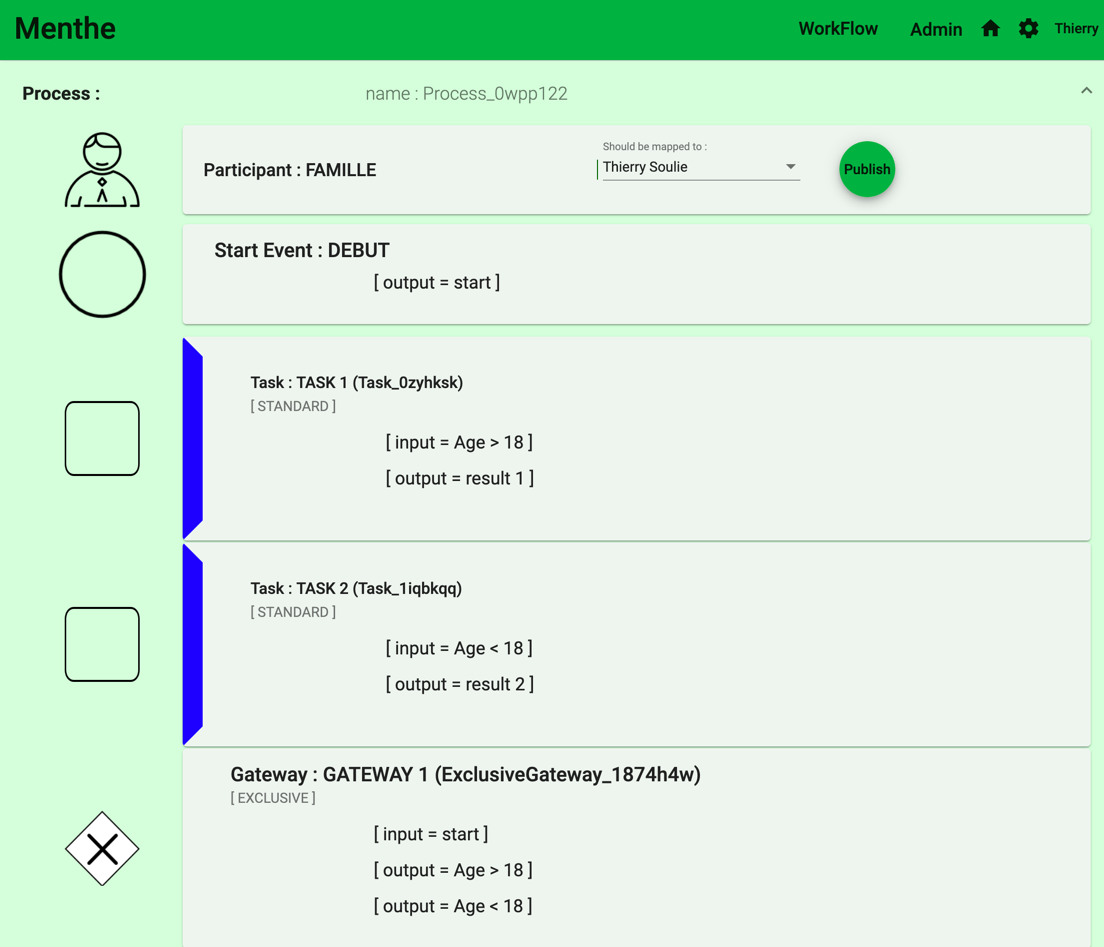
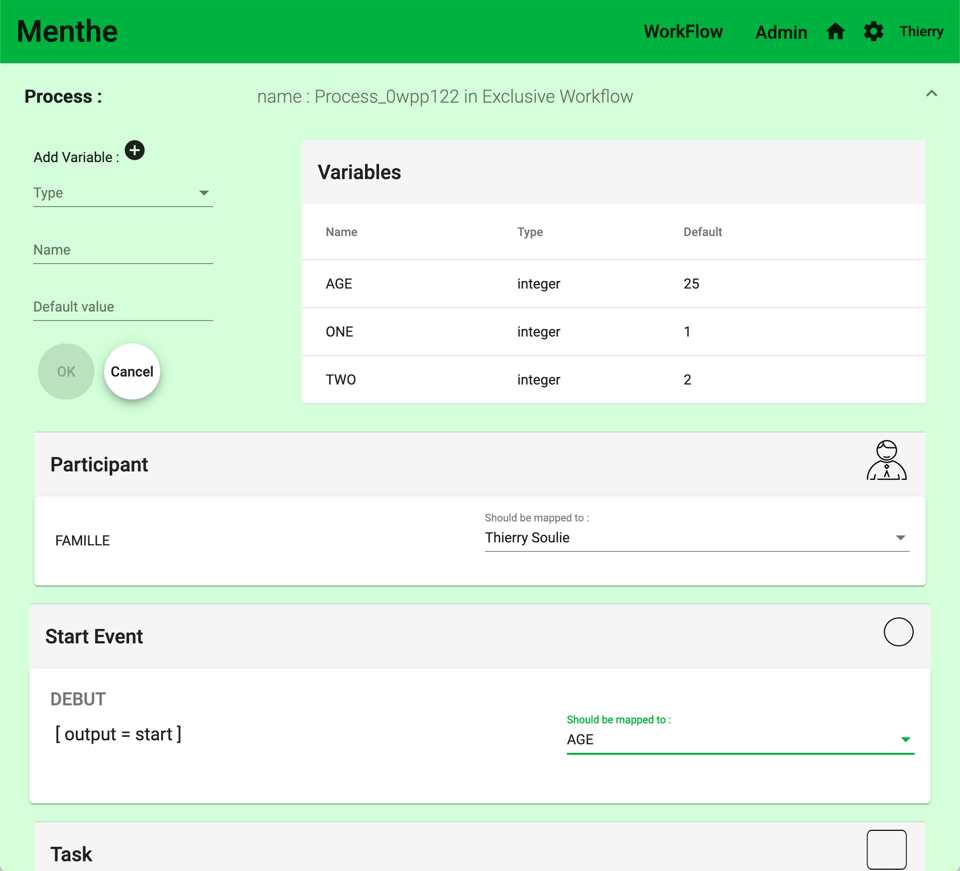
update UI

Changed region(s): [[0.0, 0.0, 1.0, 1.0]]

diff --git a/MENTHE_CLIENT/src/app/workflow/analysis/outgoing/outgoing.component.ts b/MENTHE_CLIENT/src/app/workflow/analysis/outgoing/outgoing.component.ts
@@ -1,11 +1,13 @@
 import { Component, OnInit, Input, OnDestroy } from '@angular/core';
 import { AnalysisService } from 'src/app/_services/analysis.service';
 import { SequenceFlow } from 'src/app/_models/bpmn';
-import { Variable } from 'src/app/_interfaces/publish.interface';
+import { Variable, PublishMessageHeader, VariableDirection, VariableType } from 'src/app/_interfaces/publish.interface';
 import { FormGroup, FormBuilder, Validators } from '@angular/forms';
 import { PublishingService } from 'src/app/_services/publishing.service';
 import { SubSink } from 'subsink';
 import { Observable } from 'rxjs';
+import { CommunicationService } from 'src/app/_services/communication.service';
+import { Module } from 'src/app/_interfaces/communication.interface';
 
 @Component({
   selector: 'app-outgoing',
@@ -26,6 +28,8 @@ export class OutgoingComponent implements OnInit, OnDestroy {
     variableForm: FormGroup;
     variables: Variable[] = [];
     variables$: Observable<Variable>;
+    varValue = 'Not Mapped';
+    oldvarValue = this.varValue;
 
     subs = new SubSink();
 
@@ -33,6 +37,7 @@ export class OutgoingComponent implements OnInit, OnDestroy {
     private formBuilder: FormBuilder,
     private analysisService: AnalysisService,
     private publishingService: PublishingService,
+    private communicationService: CommunicationService,
   ) {
     this.variableForm = this.formBuilder.group({
       variableType: ['', Validators.required],
@@ -57,8 +62,44 @@ export class OutgoingComponent implements OnInit, OnDestroy {
     }
     const workflowId = this.analysisService.getElementList().wf.workflow_id;
     const processes = this.analysisService.getElementList().proc;
-    this.variables = this.variables.filter(w => w.workflowId === workflowId);
+    // this.variables.push({
+    //   variableId: '',
+    //   processId: '',
+    //   workflowId,
+    //   direction: VariableDirection.NONE,
+    //   type: VariableType.STRING,
+    //   name: null,
+    //   defaultValue: '',
+    // });
+    this.variables = this.variables.filter(w => w.workflowId === workflowId).sort();
   }
+
+  onChange() {
+//    console.log('[Outgoing Mapped Value] :', this.varValue);
+    if (this.varValue === '') {}
+    if (this.oldvarValue === 'Not Mapped') {
+        this.oldvarValue = this.varValue;
+        this.communicationService.announce(
+          {
+            header: PublishMessageHeader.ADDMAPPING,
+            module: Module.PUBLISH,
+            commObject: { object: this.varValue ,
+                          relatedToId: this.outgoing}
+          }
+        );
+    } else {
+      this.communicationService.announce(
+        {
+          header: PublishMessageHeader.CHANGEMAPPING,
+          module: Module.PUBLISH,
+          commObject: { object: { old: this.oldvarValue, new: this.varValue },
+                        relatedToId: this.outgoing}
+        }
+      );
+      this.oldvarValue = this.varValue;
+    }
+  }
+
 
   ngOnDestroy() {
     this.subs.unsubscribe();

diff --git a/MENTHE_CLIENT/src/app/workflow/publishing/variable-grid/variable-grid.component.ts b/MENTHE_CLIENT/src/app/workflow/publishing/variable-grid/variable-grid.component.ts
@@ -23,7 +23,7 @@ export class VariableGridComponent implements OnInit, OnDestroy {
 
   subs = new SubSink();
 
-  displayedColumns: string[] = ['name', 'direction', 'type', 'defaultValue'];
+  displayedColumns: string[] = ['name', 'type', 'defaultValue'];
   dataSource: Variable[] = [];
 
   variableForm: FormGroup;
@@ -45,13 +45,15 @@ export class VariableGridComponent implements OnInit, OnDestroy {
     this.subs.add(
       this.publishingService.variables$.subscribe(
         variable => {
-          if ((variable.processId === this.process.attr.id) && (variable.workflowId === this.workflow.workflow_id)) {
-            console.log('[GRID] Receive new row ', variable);
-            this.variables.push(variable);
-            this.mustAddVariable = false;
-            const cloned = [...this.dataSource];
-            this.dataSource = cloned;
-          }
+          if (variable.workflowId === this.workflow.workflow_id) {
+              if (variable.processId === this.process.attr.id) {
+                console.log('[GRID] Receive new row ', variable);
+                this.variables.push(variable);
+                this.mustAddVariable = false;
+                const cloned = [...this.variables];
+                this.dataSource = cloned;
+              }
+            }
         }
       )
     );

diff --git a/MENTHE_SERVER/server/api/services/process.service.ts b/MENTHE_SERVER/server/api/services/process.service.ts
@@ -2,7 +2,7 @@
 
 import l from '../../common/logger';
 import mongoose from 'mongoose';
-import { Process, ProcessSchema, IProcess, ProcessState } from '../models/process.model';
+import { Process, ProcessSchema, IProcess, ProcessState, IProcessModel } from '../models/process.model';
 import { IUser } from '../models/users.model';
 
 
@@ -44,6 +44,20 @@ class ProcessInMongoDatabase {
     async updateProcess(id: string, newProcess: IProcess) {
         l.debug('Updating Process Id : ', id);
         return await Process.findOneAndUpdate({processId: id},newProcess);
+    }
+
+    async insertOwner(id: string, owner: IUser) {
+        let result: Promise<IProcessModel>
+        l.debug('Add Owner in Process : ', id, '-', owner);
+        this.findProcessById(id).then(
+            p => {
+                p.owner = owner;
+                result = this.updateProcess(id, p);
+            }
+        ).catch (
+            e => l.debug(e)
+        );
+        return result;
     }
 
     uuidv4() {

diff --git a/MENTHE_CLIENT/src/app/workflow/publishing/variable/variable.component.html b/MENTHE_CLIENT/src/app/workflow/publishing/variable/variable.component.html
@@ -1,13 +1,13 @@
 <div class="Grid">
   <form [formGroup]="inputVariableForm">
-    <mat-form-field>
+    <!-- <mat-form-field>
       <mat-select placeholder="Direction" formControlName='direction'
         (selectionChange)="changeVariableDirection($event)">
         <mat-option *ngFor="let direction of directions" [value]="direction">
           {{ direction | uppercase }}
         </mat-option>
       </mat-select>
-    </mat-form-field>
+    </mat-form-field> -->
     <mat-form-field>
       <mat-select placeholder="Type" formControlName='variableType' (selectionChange)="changeVariableType($event)">
         <mat-option *ngFor="let vtype of vtypes" [value]="vtype">

diff --git a/MENTHE_CLIENT/src/app/_services/communication.service.ts b/MENTHE_CLIENT/src/app/_services/communication.service.ts
@@ -103,8 +103,9 @@ export class CommunicationService {
                                     });
                   break;
                 case AnalysisMessagesHeaders.PARTICIPANT:
-                  message.commObject.object.forEach(element =>
-                    this.analysisService.addParticipantInList(element));
+                  message.commObject.object.forEach(element => {
+                    this.analysisService.addParticipantInList(element);
+                  });
                   break;
                 case AnalysisMessagesHeaders.STARTEVENT:
                   this.analysisService.addStartEventInList(message.commObject.object);

diff --git a/MENTHE_CLIENT/src/app/_services/process.service.ts b/MENTHE_CLIENT/src/app/_services/process.service.ts
@@ -6,6 +6,7 @@ import { DBProcess } from '../_models/process';
 import { map, partition } from 'rxjs/operators';
 import { Observable, Subject } from 'rxjs';
 import { UserService } from './user.service';
+import { User } from '../_models/user';
 
 
 @Injectable()
@@ -60,5 +61,15 @@ export class DBProcessService {
       }));
   }
 
+  insertOwner(id: string, owner: User) {
+    return this.http.put(environment.APIEndpoint + '/api/v1/process/owner' + id, owner, {
+      observe: 'response',
+      responseType: 'text'
+    })
+      .pipe(map(response => {
+        console.log(response);
+        return response;
+      }));
+  }
 
 }

diff --git a/MENTHE_CLIENT/src/app/workflow/analysis/outgoing/outgoing.component.html b/MENTHE_CLIENT/src/app/workflow/analysis/outgoing/outgoing.component.html
@@ -7,9 +7,9 @@
       <form [formGroup]="variableForm">
         <mat-form-field>
           <mat-label>Should be mapped to : </mat-label>
-          <mat-select placeholder="Variable" formControlName='name' id='name'>
+          <mat-select placeholder="Variable" formControlName='name' id='name' [(value)]='varValue' (selectionChange)='onChange()'>
             <mat-option *ngFor="let variable of variables" [value]="variable.name">
-              ({{variable.direction}}) : {{variable.name}}
+              <span>{{variable.name}}</span>
             </mat-option>
           </mat-select>
         </mat-form-field>

diff --git a/MENTHE_CLIENT/src/app/workflow/publishing/variable-grid/variable-grid.component.html b/MENTHE_CLIENT/src/app/workflow/publishing/variable-grid/variable-grid.component.html
@@ -1,5 +1,5 @@
 <div class="Grid" fxLayout="row" fxLayout.gt-xs="row" fxLayout.xs="columun" fxLayoutAlign="space-between center">
-  <div fxFlex="15%" fxLayoutAlign="center">
+  <div fxFlex="20%" fxLayoutAlign="center">
     <!-- <img class="taskicon" src='assets/task_icons/Task_STANDARD.png'> -->
     <div>
     <mat-label>Add Variable :
@@ -19,7 +19,8 @@
       <!-- </form> -->
     </div>
   </div>
-  <div fxFlex="85%">
+  <div fxFlex="5%"></div>
+  <div fxFlex="75%">
     <div>
       <mat-toolbar color="secondary">
         <span>Variables</span>

diff --git a/MENTHE_CLIENT/src/app/workflow/publishing/variable/variable.component.ts b/MENTHE_CLIENT/src/app/workflow/publishing/variable/variable.component.ts
@@ -84,7 +84,7 @@ export class VariableComponent implements OnInit, OnDestroy {
         module: Module.PUBLISH,
         commObject: {
           object: {
-            direction: this.inputVariableForm.controls.direction.value,
+            direction: VariableDirection.NONE,
             type: this.inputVariableForm.controls.variableType.value,
             name: this.inputVariableForm.controls.name.value,
             defaultValue: this.inputVariableForm.controls.defaultValue.value,

diff --git a/MENTHE_SERVER/server/api/controllers/app/process.controller.ts b/MENTHE_SERVER/server/api/controllers/app/process.controller.ts
@@ -69,6 +69,13 @@ export class processControler {
           .catch(err => res.sendStatus(500));
         res.sendStatus(204);
       }
+
+      async insertOwnerInProcess(req: Request, res: Response) {
+        l.debug('Request for insert in processId:', req.params.id);
+        const process = await db.insertOwner(req.params.id, req.body)
+          .catch(err => res.sendStatus(500))
+        res.sendStatus(204);
+      }
 }
 
 export default new processControler();

diff --git a/MENTHE_CLIENT/src/app/_interfaces/publish.interface.ts b/MENTHE_CLIENT/src/app/_interfaces/publish.interface.ts
@@ -7,6 +7,7 @@ export enum VariableType {
 }
 
 export enum VariableDirection {
+  NONE = '',
   INPUT = 'INPUT',
   OUTPUT = 'OUTPUT',
 }
@@ -31,4 +32,6 @@ export enum PublishMessageHeader {
   REMOVEPARTICIPANT = 'REMOVEPARTICIPANT',
   CHANGEPARTICIPANT = 'CHANGEPARTICIPANT',
   ADDVARIABLE = 'ADDVARIABLE',
+  ADDMAPPING = 'ADDMAPPING',
+  CHANGEMAPPING = 'CHANGEMAPPING',
 }

diff --git a/MENTHE_SERVER/server/api/models/process.model.ts b/MENTHE_SERVER/server/api/models/process.model.ts
@@ -1,4 +1,5 @@
 import { Model, Schema, Document, model } from 'mongoose';
+import { IUser } from './users.model';
 
 export  enum ProcessState {
     RUNNING,
@@ -12,6 +13,7 @@ export interface IProcess {
     workflowId: string;
     state: ProcessState;
     name: string;
+    owner: IUser;
 }
 export interface IProcessModel extends IProcess, Document {}
 
